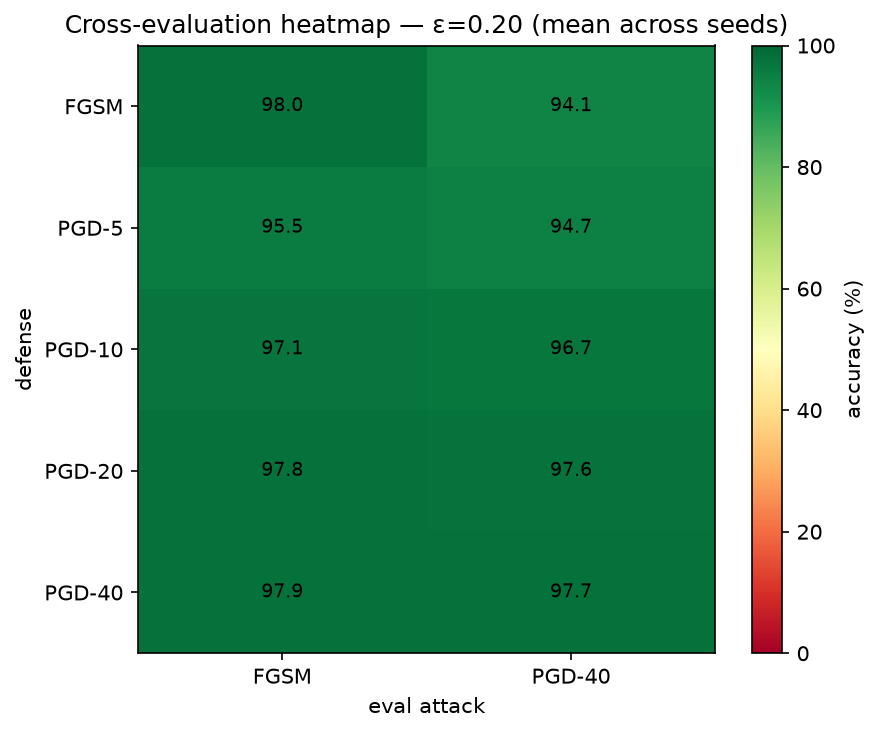
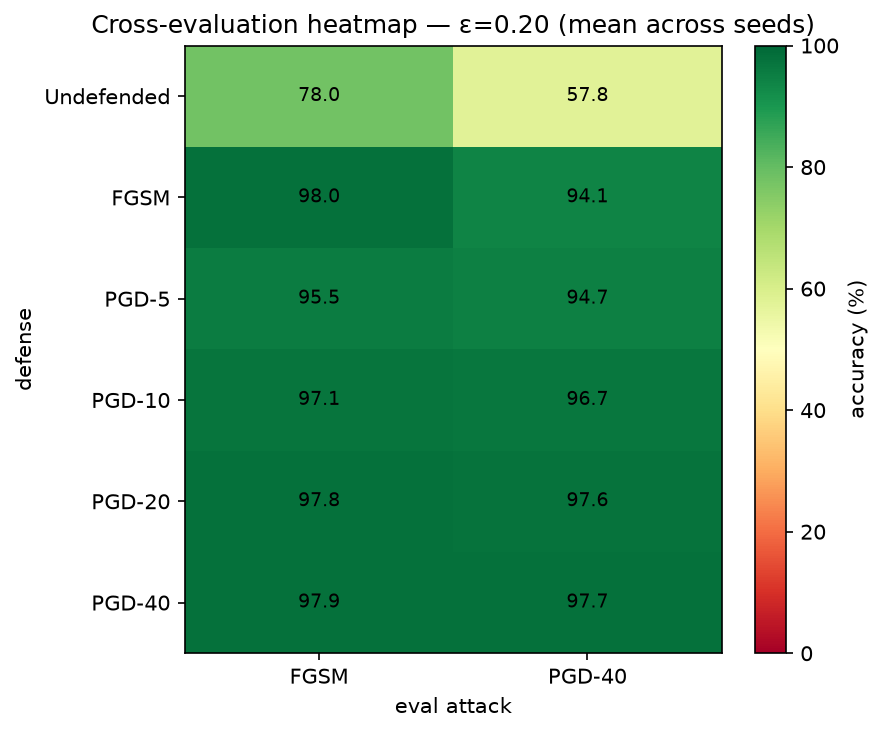
Add undefended acc to cross eval heatmaps

diff --git a/analysis/plots.py b/analysis/plots.py
@@ -5,6 +5,7 @@ import matplotlib.pyplot as plt
 import matplotlib.ticker as ticker
 import numpy as np
 from matplotlib.ticker import MultipleLocator
+from .aggregate import crosseval_pivot
 
 
 # ─────────────────────────────────────────
@@ -201,30 +202,8 @@ def plot_crosseval_heatmap(df: pd.DataFrame, epsilon: float) -> plt.Figure:
     At a fixed epsilon, grid of defense (rows) vs eval_attack (cols)
     showing mean defense_accuracy across seeds.
     """
-    d = df[df["epsilon"].round(4) == round(epsilon, 4)]
-
-    def defense_label(attack, steps):
-        return attack.upper() if pd.isna(steps) else f"PGD-{int(steps)}"
-
-    def eval_label(attack, steps):
-        return attack.upper() if pd.isna(steps) else f"PGD-{int(steps)}"
-
-    d = d.copy()
-    d["defense_label"] = d.apply(lambda r: defense_label(r["defense_attack"], r["defense_steps"]), axis=1)
-    d["eval_label"]    = d.apply(lambda r: eval_label(r["eval_attack"], r["eval_steps"]), axis=1)
-
-    pivot = (
-        d.groupby(["defense_label", "eval_label"])["defense_accuracy"]
-         .mean()
-         .unstack()
-    )
-
-    # row order: FGSM, PGD-5, PGD-10, PGD-20, PGD-40
-    row_order = ["FGSM"] + [f"PGD-{s}" for s in [5, 10, 20, 40]]
-    col_order = ["FGSM", "PGD-40"]
-    pivot = pivot.reindex(index=[r for r in row_order if r in pivot.index],
-                          columns=[c for c in col_order if c in pivot.columns])
-
+    pivot = crosseval_pivot(df, epsilon)
+    
     fig, ax = plt.subplots(figsize=(6, 5))
     im = ax.imshow(pivot.values, vmin=0, vmax=100, cmap="RdYlGn", aspect="auto")
     plt.colorbar(im, ax=ax, label="accuracy (%)")

diff --git a/analysis/aggregate.py b/analysis/aggregate.py
@@ -131,8 +131,23 @@ def crosseval_pivot(df: pd.DataFrame, epsilon: float) -> pd.DataFrame:
         lambda r: eval_label(r["eval_attack"], r["eval_steps"]), axis=1
     )
 
-    return (
+    baseline = (
+        d.groupby("eval_label")["baseline_accuracy"]
+         .mean()
+    )
+    baseline_row = pd.DataFrame([baseline], index=["Undefended"])
+    
+    pivot = (
         d.groupby(["defense_label", "eval_label"])["defense_accuracy"]
          .mean()
          .unstack()
     )
+    pivot = pd.concat([baseline_row, pivot])
+
+    row_order = ["Undefended", "FGSM"] + [f"PGD-{s}" for s in [5, 10, 20, 40]]
+    col_order = ["FGSM", "PGD-40"]
+    pivot = pivot.reindex(
+        index=[r for r in row_order if r in pivot.index],
+        columns=[c for c in col_order if c in pivot.columns]
+    )
+    return pivot

diff --git a/analysis/report.py b/analysis/report.py
@@ -91,10 +91,10 @@ def main():
     )
 
     print("Cross-evaluation heatmap...")
-    for eps in [0.1, 0.2, 0.3]:
+    for eps in [0.0, 0.1, 0.2, 0.3]:
         _save_fig(
             plot_crosseval_heatmap(defense_df, epsilon=eps),
-            f"crosseval_heatmap_eps{int(eps * 100):02d}.png"
+            f"crosseval_heatmap_eps{int(eps*100):02d}.png"
         )
 
     print("Defense summary tables...")
@@ -103,9 +103,9 @@ def main():
     defense_seed_variance(defense_df).to_csv(CSV_DIR / "defense_seed_variance.csv", index=False)
 
     print("Cross-evaluation pivot tables...")
-    for eps in [0.1, 0.2, 0.3]:
+    for eps in [0.0, 0.1, 0.2, 0.3]:
         pivot = crosseval_pivot(defense_df, epsilon=eps)
-        pivot.to_csv(CSV_DIR / f"crosseval_pivot_eps{int(eps * 100):02d}.csv")
+        pivot.to_csv(CSV_DIR / f"crosseval_pivot_eps{int(eps*100):02d}.csv", index_label="defense_label")
         print(f"\n  Cross-eval at ε={eps:.1f}:")
         print(pivot.to_string())
 